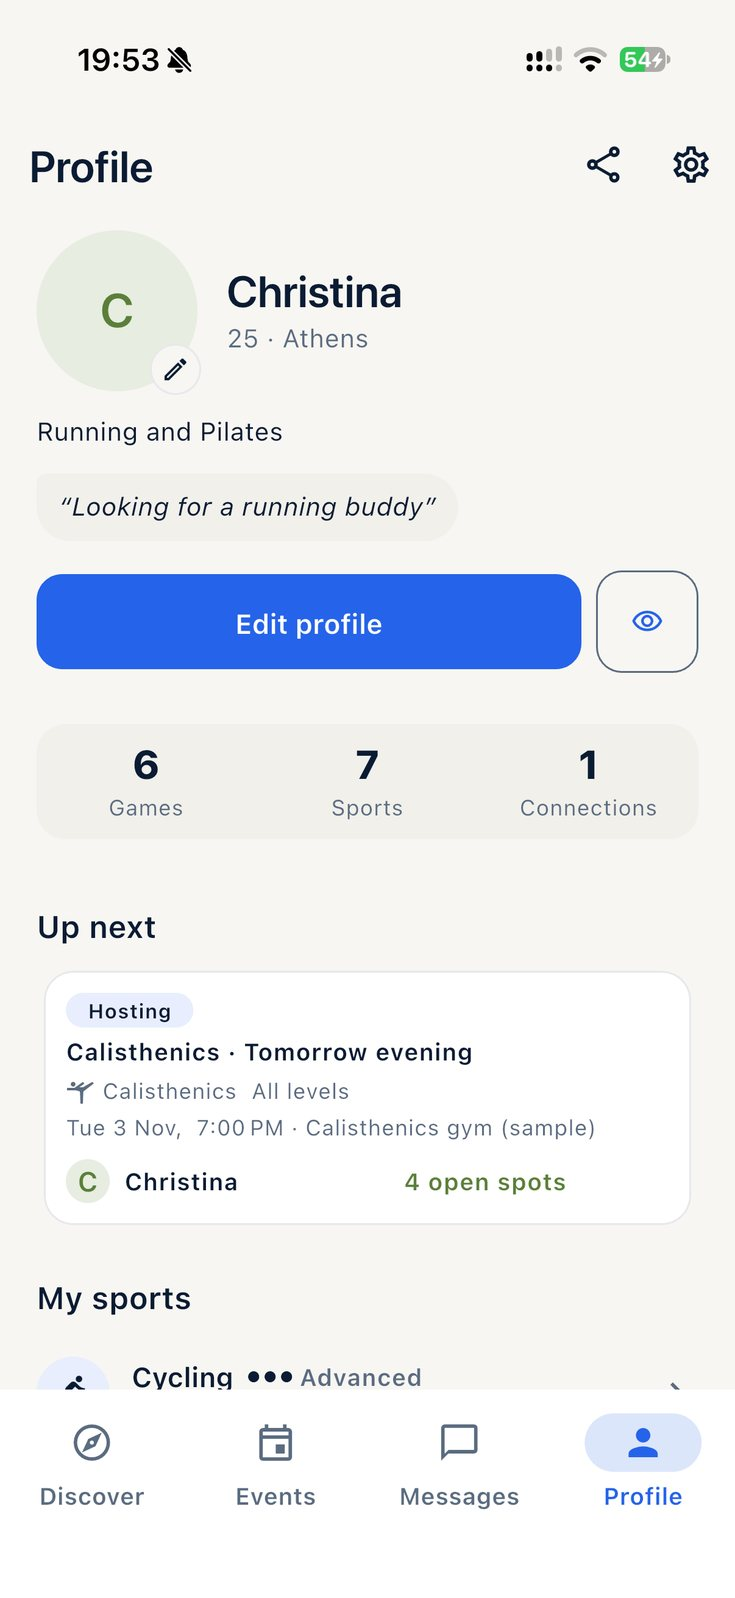
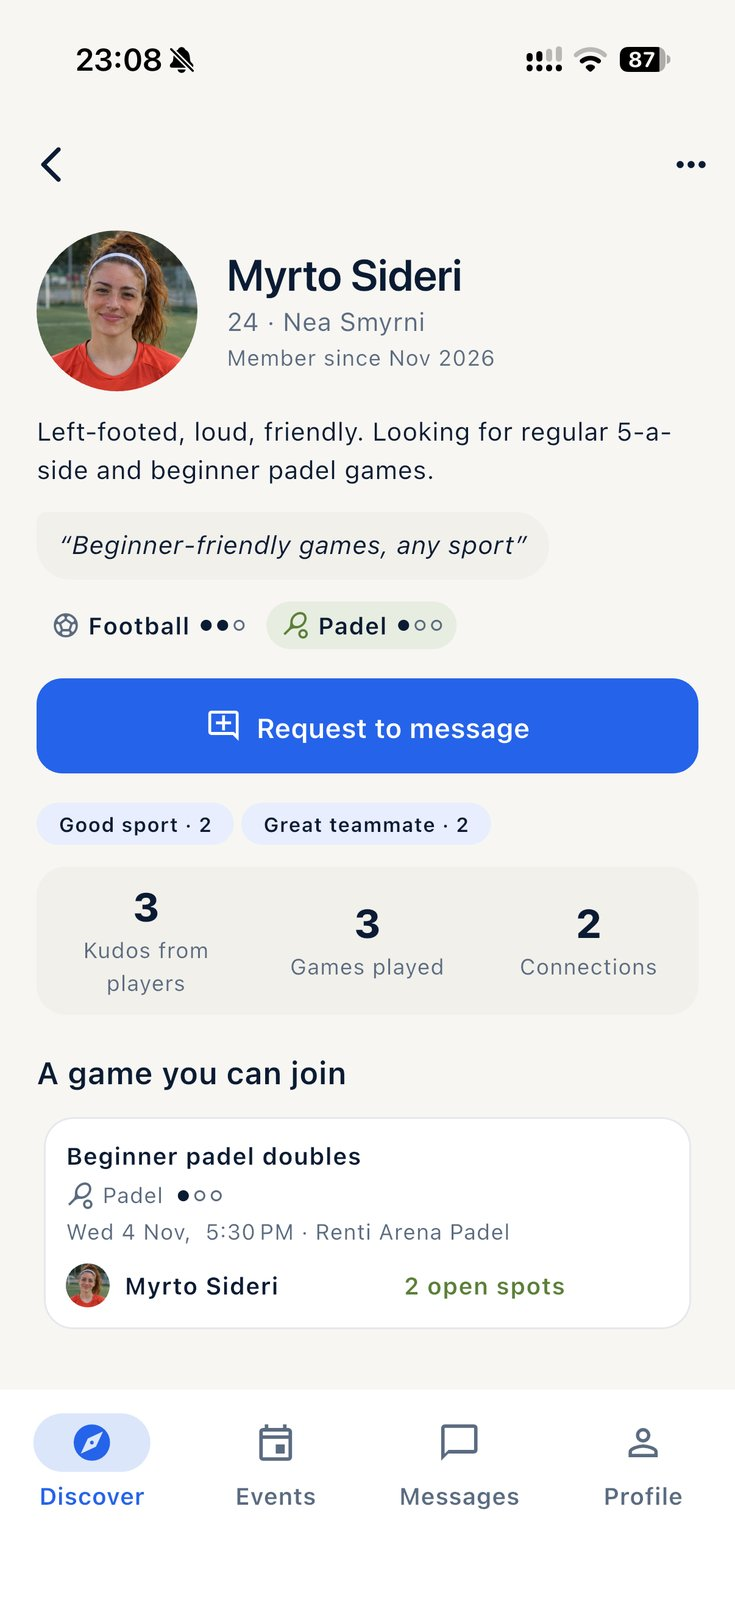
New welcome and profile screenshots; hide distances in the Discover screenshot
Claude-Session: https://claude.ai/code/session_014Lp433Q551PRDiouGM9CZK

diff --git a/index.html b/index.html
@@ -19,8 +19,8 @@
   <meta property="og:image" content="https://athlomate.app/img/logo.png" />
   <meta name="twitter:card" content="summary" />
 
-  <link rel="stylesheet" href="styles.css?v=18" />
-  <link rel="stylesheet" href="anim.css?v=18" />
+  <link rel="stylesheet" href="styles.css?v=19" />
+  <link rel="stylesheet" href="anim.css?v=19" />
 
   <script type="application/ld+json">
   {
@@ -88,7 +88,7 @@
           <div class="floating a" aria-hidden="true"><span class="dot"></span><span data-i18n="float1">3 shared sports</span></div>
           <div class="floating b" aria-hidden="true"><span class="dot"></span><span class="tick" id="tick">Football · tonight 20:30 · 2 spots left</span></div>
           <figure class="shot hero-shot">
-            <img src="img/welcome.jpg" alt="Athlomate welcome screen with a padel player" width="735" height="1598" fetchpriority="high" />
+            <img src="img/welcome.jpg?v=19" alt="Athlomate welcome screen with a basketball hoop" width="735" height="1598" fetchpriority="high" />
           </figure>
         </div>
 
@@ -126,7 +126,7 @@
         <div class="bento">
           <article class="card wide">
             <div class="card-text"><div class="icon">🔎</div><h3 data-i18n="f2t">Discover players</h3><p data-i18n="f2d">Browse players in your city who share your sports. Filter by sport and see what you have in common.</p></div>
-            <div class="card-shot"><img src="img/discover.jpg" alt="" width="735" height="1598" loading="lazy" /></div>
+            <div class="card-shot"><img src="img/discover.jpg?v=19" alt="" width="735" height="1598" loading="lazy" /></div>
           </article>
           <article class="card"><div class="icon">🤝</div><h3 data-i18n="f3t">Smart match</h3><p data-i18n="f3d">Suggestions are weighted by skill level, so the people you see are a real fit for your game.</p>
             <div class="skill-meter" aria-hidden="true"><span class="on"></span><span class="on"></span><span class="on"></span><span></span><span></span></div>
@@ -136,7 +136,7 @@
           </article>
           <article class="card wide">
             <div class="card-text"><div class="icon">📅</div><h3 data-i18n="f4t">Create and join events</h3><p data-i18n="f4d">Set a sport, time and place with open spots. Others request to join and you accept.</p></div>
-            <div class="card-shot"><img src="img/events.jpg" alt="" width="735" height="1598" loading="lazy" /></div>
+            <div class="card-shot"><img src="img/events.jpg?v=19" alt="" width="735" height="1598" loading="lazy" /></div>
           </article>
           <article class="card wide">
             <div class="card-text"><div class="icon">💬</div><h3 data-i18n="f5t">Direct messaging</h3><p data-i18n="f5d">Chat with players to agree the details before you meet.</p>
@@ -148,7 +148,7 @@
           </article>
           <article class="card wide full">
             <div class="card-text"><div class="icon">🎯</div><h3 data-i18n="f1t">Sport and skill profile</h3><p data-i18n="f1d">Pick the sports you play and set your skill level, so you meet people who match your pace.</p></div>
-            <div class="card-shot two"><img src="img/profile.jpg" alt="" width="735" height="1598" loading="lazy" /><img src="img/profile-sports.jpg" alt="" width="735" height="1598" loading="lazy" /></div>
+            <div class="card-shot two"><img src="img/profile.jpg?v=19" alt="" width="735" height="1598" loading="lazy" /><img src="img/profile-sports.jpg" alt="" width="735" height="1598" loading="lazy" /></div>
           </article>
         </div>
       </div>
@@ -171,8 +171,8 @@
           </div>
           <div class="screen">
             <div class="phone">
-              <img class="frame active" src="img/profile.jpg" alt="Athlomate profile with sports and skill levels" width="735" height="1598" loading="lazy" />
-              <img class="frame" src="img/discover.jpg" alt="Athlomate discover feed with players and their sports" width="735" height="1598" loading="lazy" />
+              <img class="frame active" src="img/profile.jpg?v=19" alt="Athlomate profile with sports and skill levels" width="735" height="1598" loading="lazy" />
+              <img class="frame" src="img/discover.jpg?v=19" alt="Athlomate discover feed with players and their sports" width="735" height="1598" loading="lazy" />
               <img class="frame" src="img/create-event.jpg" alt="Athlomate create event screen" width="735" height="1598" loading="lazy" />
               <div class="frame recap" aria-label="Game recap example">
                 <p class="recap-kicker">⚽ <span data-i18n="recapSport">Football · yesterday</span></p>
@@ -283,7 +283,7 @@
     </div>
   </footer>
 
-  <script src="anim.js?v=18"></script>
-  <script src="script.js?v=18"></script>
+  <script src="anim.js?v=19"></script>
+  <script src="script.js?v=19"></script>
 </body>
 </html>
